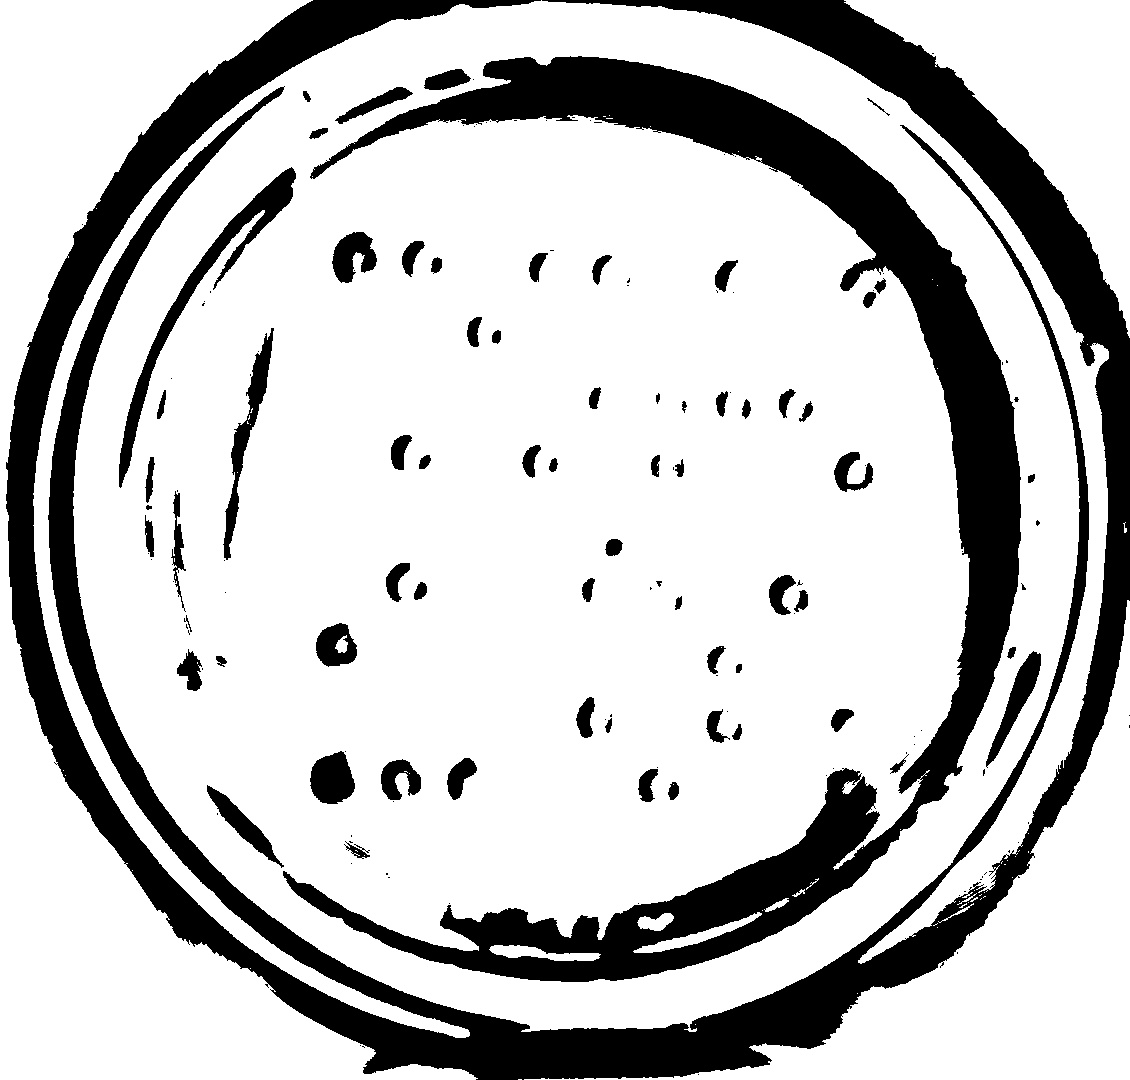
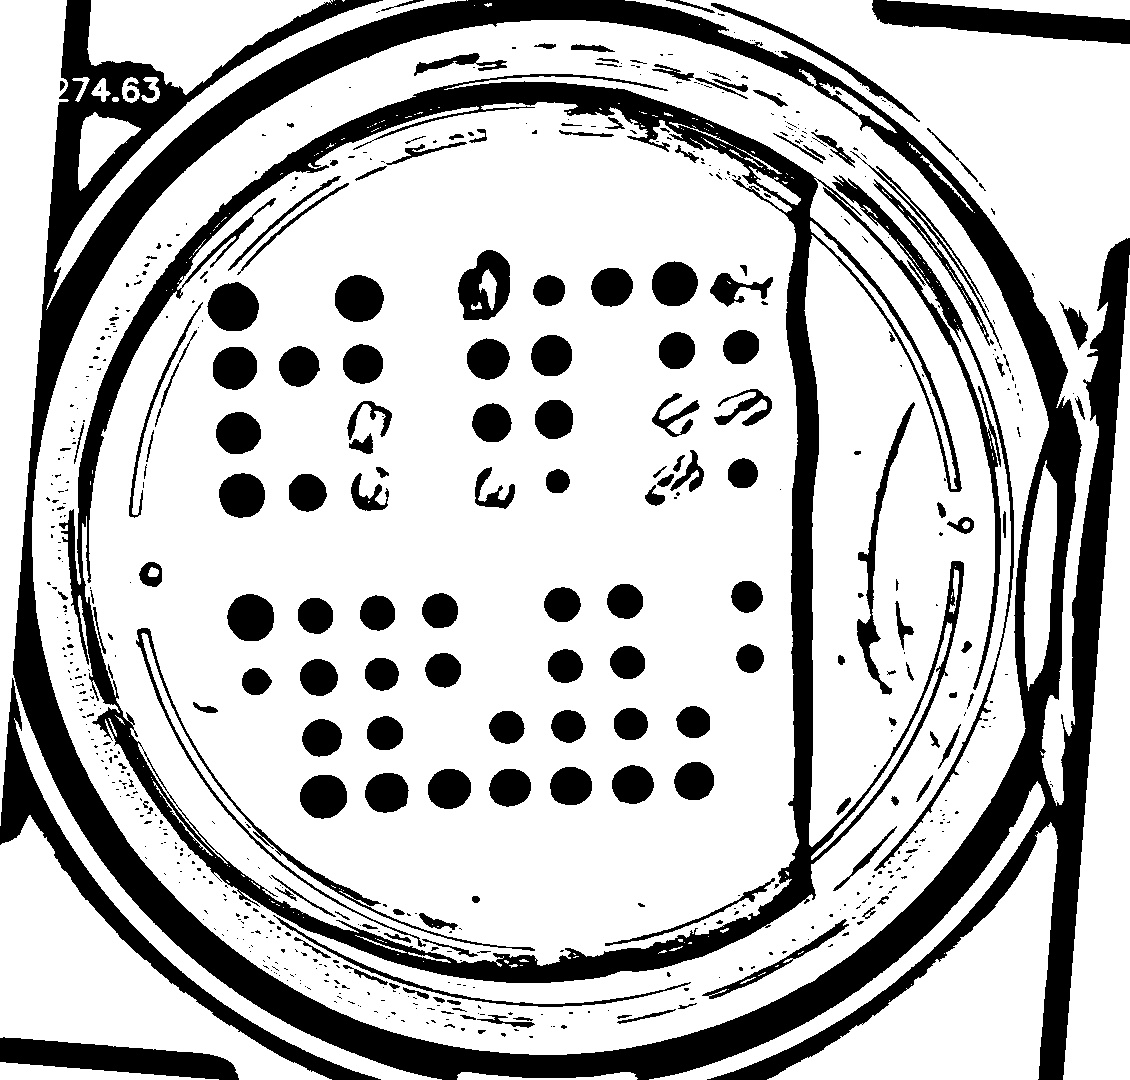
added petri dish number in pictures name

diff --git a/robotinterface/job_library.py b/robotinterface/job_library.py
@@ -77,7 +77,7 @@ def analyse_each_image_separately(folder_name, auto_offset=False, auto_rotate=Fa
     if num_cols == 10:
         positions = [(240, 240), (880, 810)]
     elif num_cols == 9:
-        positions = [(240, 240), (840, 810)]
+        positions = [(200, 250), (780, 830)]
     for image in images :
         print(image)
         input_image = cv2.imread(image)
@@ -86,7 +86,7 @@ def analyse_each_image_separately(folder_name, auto_offset=False, auto_rotate=Fa
 
         #cropped_input = input_image[:,(width-tall)//2:width-(width-tall)//2][:]
 
-        cropped_input = input_image[:, 350:1480][:]
+        cropped_input = input_image[:, 430:1560][:]
 
         print(cropped_input.shape)
 
@@ -154,15 +154,15 @@ def summary_of_all_images(folder_name):
     width = cv2.imread(input_images[0]).shape[1]
 
     #input_summary = cv2.imread(input_images[0])[:, (width - tall) // 2:width - (width - tall) // 2][:]
-    input_summary = cv2.imread(input_images[0])[:, 350: 1480][:]
+    input_summary = cv2.imread(input_images[0])[:, 430:1560][:]
     output_summary = cv2.imread(output_images[0])
 
     for i in range(1,len(input_images)) :
         #input_summary= np.concatenate((input_summary, cv2.imread(input_images[i])[:, (width - tall) // 2:width - (width - tall) // 2][:]), axis=0)
-        input_summary= np.concatenate((input_summary, cv2.imread(input_images[i])[:, 350: 1480][:]), axis=0)
-        output_summary = np.concatenate((output_summary, cv2.imread(output_images[i])), axis=0)
+        input_summary= np.concatenate((input_summary, cv2.imread(input_images[i])[:, 430:1560][:]), axis=1)
+        output_summary = np.concatenate((output_summary, cv2.imread(output_images[i])), axis=1)
 
-    image_summary = np.concatenate((input_summary, output_summary), axis=1)
+    image_summary = np.concatenate((input_summary, output_summary), axis=0)
 
     cv2.imwrite( folder_name+"/image_summary.jpeg", image_summary)
 
@@ -171,5 +171,5 @@ def summary_of_all_images(folder_name):
 if __name__ == "__main__":
     #/Users/Etienne/Documents/GitHub/robot-interface/images/test
     #/Users/Etienne/Documents/GitHub/robot-interface/images/1_trait
-    analyse_each_image_separately("/Users/Etienne/Documents/GitHub/robot-interface/images/celso_1", auto_offset=False, auto_rotate=False,num_cols=9)
-    summary_of_all_images("/Users/Etienne/Documents/GitHub/robot-interface/images/celso_1")
+    analyse_each_image_separately("/Users/Etienne/Documents/GitHub/robot-interface/images/black_1", auto_offset=True, auto_rotate=False,num_cols=9)
+    summary_of_all_images("/Users/Etienne/Documents/GitHub/robot-interface/images/black_1")

diff --git a/Computer_vision/Image_processing/cv_matrix.py b/Computer_vision/Image_processing/cv_matrix.py
@@ -97,7 +97,7 @@ def analyse_matrix(image: np.ndarray, positions: list,draw_blob=False, auto_offs
     bw: np.ndarray = cv2.cvtColor(image, cv2.COLOR_BGR2GRAY)
     # old block value : 71
     # block value for 55
-    tr: np.ndarray = cv2.adaptiveThreshold(bw,255,cv2.ADAPTIVE_THRESH_MEAN_C, cv2.THRESH_BINARY_INV, 155, -10)
+    tr: np.ndarray = cv2.adaptiveThreshold(bw,255,cv2.ADAPTIVE_THRESH_MEAN_C, cv2.THRESH_BINARY_INV, 55, -10)
 
     cv2.imshow('tr', tr)
     cv2.imwrite("/Users/Etienne/Documents/GitHub/robot-interface/Computer_vision/Image_processing/matrix_gaussian.jpeg",tr)

diff --git a/robotinterface/protocol_one_experiment.py b/robotinterface/protocol_one_experiment.py
@@ -87,6 +87,9 @@ async def main():
                     else:
                         target = [object]
                 await robot.pick_and_place(target, pos_experiment)
+        analyse_each_image_separately("/Users/Etienne/Documents/GitHub/robot-interface/images/"+experiment.name,
+                                      auto_offset=True, auto_rotate=False, num_cols=9)
+        summary_of_all_images("/Users/Etienne/Documents/GitHub/robot-interface/images/"+experiment.name)
 
     await robot.shutdown()
 

diff --git a/robotinterface/gui/user_gui.py b/robotinterface/gui/user_gui.py
@@ -204,7 +204,7 @@ def add_experiment(grid: Grid, grid_pos: GridPosition, tkinter_window):
         # PlateHolder associated with the experiment
         for i in range(6):
             if ThisExperiment.marker_list[i] !='':
-                add_pertidish(grid, grid_pos,name=ThisExperiment.question_list[i].answer)
+                add_pertidish(grid, grid_pos,number=i,name=ThisExperiment.question_list[i].answer)
     else:
         logging.info("Max number of Experiment reached")
         
